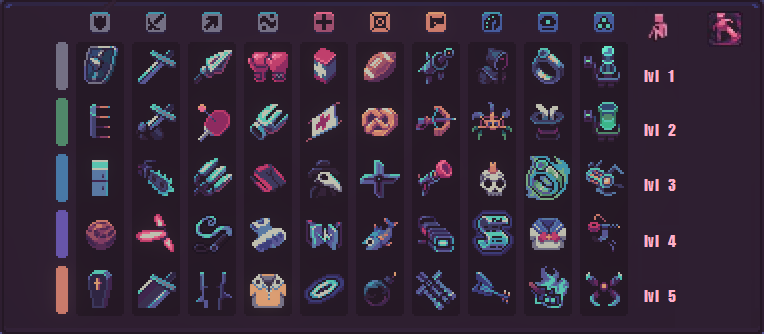
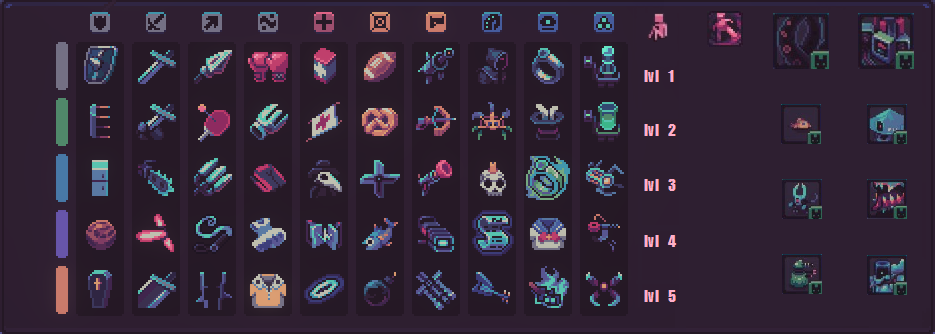
update

diff --git a/js/main.js b/js/main.js
@@ -2,17 +2,21 @@
 
 $(function () {
 	let items = {
-		tanks: [[250, .03], [450, .05], [600, .10], [800, .06], [950, .07]],
+		tanks: [[250, .03], [500, .05], [650, .10], [900, .06], [1050, .07]],
 		fencers: [[160, .05], [310, .06], [440, .07], [600, .08], [810, .09]],
-		tricksters: [[100, .09], [160, .09], [200, .04], [380, .08], [520, .04]],
+		tricksters: [[100, .09], [160, .09], [200, .04], [380, .09], [500, .04]],
 		fighters: [[120, .06], [230, .07], [450, .09], [600, .09], [770, .03]],
 		healers: [[50, .10], [90, .10], [180, .10], [360, .10], [450, .10]],
-		throwers: [[80, .07], [110, .07], [150, .10], [200, .07], [250, .07]],
+		throwers: [[80, .07], [110, .07], [150, .10], [180, .07], [220, .07]],
 		shooters: [[0, .00], [40, .10], [70, .04], [130, .07], [180, .09]],
 		cultists: [[100, .05], [200, .06], [300, .07], [400, .08], [500, .09]],
-		mages: [[10, .07], [40, .10], [60, .04], [110, .08], [800, .06]],
+		mages: [[30, .07], [40, .10], [60, .04], [110, .08], [800, .06]],
 		eggheads: [[110, .06], [140, .06], [210, .10], [280, .10], [700, .10]],
 		newbies: [[70, 0], [100, 0], [150, 0], [200, 0], [250, 0]],
+		summons: [
+			[[1313, 2626, 3939], [300], [600], [2000]],
+			[[300, 500, 900], [4500], [7000], [10000]]
+		],
 	};
 	let img = new Image(684, 334);
 	img.onload = calc;
@@ -26,7 +30,7 @@ $(function () {
 			flat = parseInt($("input[name=flat]").val(), 10) || 0,
 			percent = parseInt($("input[name=percent]").val(), 10) || 0,
 			bonus = parseInt($("input[name=bonus]").val(), 10) || 0,
-			fat = $("input[name=fat]").is(":checked") ? 1.35 : 1,
+			fat = $("input[name=fat]").is(":checked") ? 1.25 : 1,
 			bear = $("input[name=bear]").is(":checked") ? 1.3 : 1,
 			fit = $("input[name=fit]").is(":checked") ? 1.1 : 1,
 			flat_e = parseInt($("input[name=flat_e]").val(), 10) || 0,
@@ -54,6 +58,19 @@ $(function () {
 					ctx.fillStyle = "rgba(76, 175, 80, 0.9)";
 					ctx.fillText(hp, +coords[0] + (47 - width) / 2, +coords[1] + 58);
 					mega += parseInt($("input[name='lvl_" + (j + 1) + "']").val(), 10) * hp;
+				});
+			} else if (itemClass === 'summons') {
+				$.each(itemsClass, function(j, items){
+					$.each(items, function(k, item){
+						let hp = (level <= item.length ? item[level - 1] : item[item.length - 1]) * (summons / 100 + 1) * fit;
+						hp = parseInt(hp, 10);
+						let coords = [160 + j * 31 + (i + j) * 56, 30 + k * 75, 123 + (i + j) * 56];
+						var width = ctx.measureText(hp).width;
+						ctx.fillStyle = "rgba(20, 15, 20, 0.8)";
+						ctx.fillRect(+coords[0] + (47 - width) / 2 - 6, +coords[1] + 58 - fontSize, width + 12, fontSize + 4);
+						ctx.fillStyle = "rgba(76, 175, 80, 0.9)";
+						ctx.fillText(hp, +coords[0] + (47 - width) / 2, +coords[1] + 58);
+					});
 				});
 			} else {
 				$.each(itemsClass, function(j, item){

diff --git a/index.html b/index.html
@@ -10,7 +10,7 @@
 </head>
 <body>
 	<div class="canvas-wrapper">
-		<canvas id="items" width="764" height="334"></canvas>
+		<canvas id="items" width="935" height="334"></canvas>
 		<div id="newbies_count">
 			<input name="lvl_1" type="number" step="1" min="0" value="0" max="49" />
 			<input name="lvl_2" type="number" step="1" min="0" value="0" max="49" />
@@ -27,7 +27,7 @@
 		<input name="percent" type="number" step="10" min="0" value="0" max="800" list="hm" /> health multiplier <br />
 		<input name="summons" type="number" step="50" min="0" value="0" max="600" list="hs" /> mglw'nafh <br />
 		<br /> <strong>mutations</strong> <br />
-		<input name="fat" type="checkbox" /> healhty fat (+35%) <br />
+		<input name="fat" type="checkbox" /> healhty fat (+25%) <br />
 		<input name="bear" type="checkbox" /> bear spirit (+30% for cultists) <br />
 		<input name="fit" type="checkbox" /> fit (+10%) <br />
 		<input name="bonus" type="number" step="10" min="-20" value="0" max="50" list="hb2" /> health bonus (+50 or -20) <br />

diff --git a/css/style.css b/css/style.css
@@ -11,7 +11,7 @@ body {
 .canvas-wrapper {
 	position: relative;
 	display: inline-block;
-	width: 764px;
+	width: 935px;
 }
 #items {
 	position: absolute;
